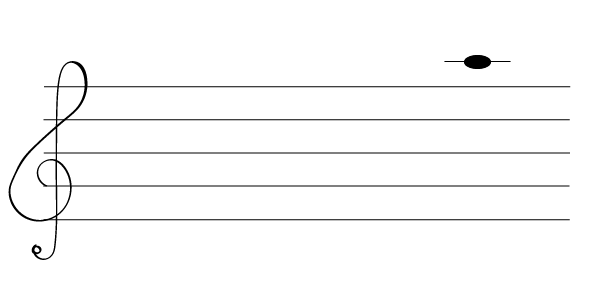
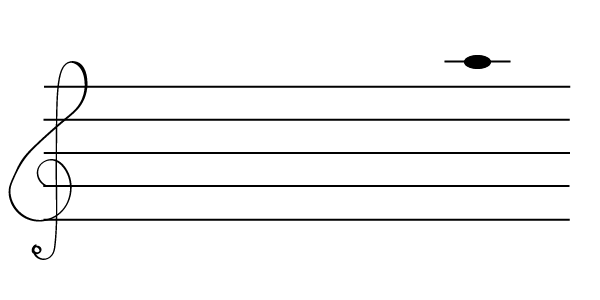
Сделал толще линейки

diff --git a/index.js b/index.js
@@ -3,7 +3,7 @@ const fs = require('fs');
 let TOKEN = ''
 
 let start = new Promise((resolve, reject) => {
-    fs.readFile(__dirname + '\\token.txt', 'utf8', (err, data) => {
+    fs.readFile(__dirname + '/token.txt', 'utf8', (err, data) => {
         if (err) {
             reject(err);
         }
@@ -46,10 +46,8 @@ start
                     bot.sendMessage(id, "Привет пользователь. Тебе предстоит узнавать ноты в скрипичном ключе. Я тебе буду отправлять" +
                         "картинки, а ты пиши название ноты: до, ре, ми, фа, соль, ля, си")
 	                pic_num = helper.Rand(pic_num);
-		            console.log(pic_num);
-		            console.log(users.length);
                     users[users.length - 1].right_ans = ans_notes[pic_num];
-                    console.log("right ans is " + users[users.length - 1].right_ans.ans)
+                    // console.log("right ans is " + users[users.length - 1].right_ans.ans)
                     bot.sendPhoto(id, dir + users[users.length - 1].right_ans.pic);
                 }
                 else{
@@ -90,7 +88,7 @@ start
                     setTimeout(() => {
                         pic_num = helper.Rand(pic_num);
                         users[user_id].right_ans = ans_notes[pic_num];
-                        console.log("right ans is " + users[user_id].right_ans.ans)
+                        // console.log("right ans is " + users[user_id].right_ans.ans)
                         bot.sendPhoto(id, dir + users[user_id].right_ans.pic);
                     }, 300)
                 }
